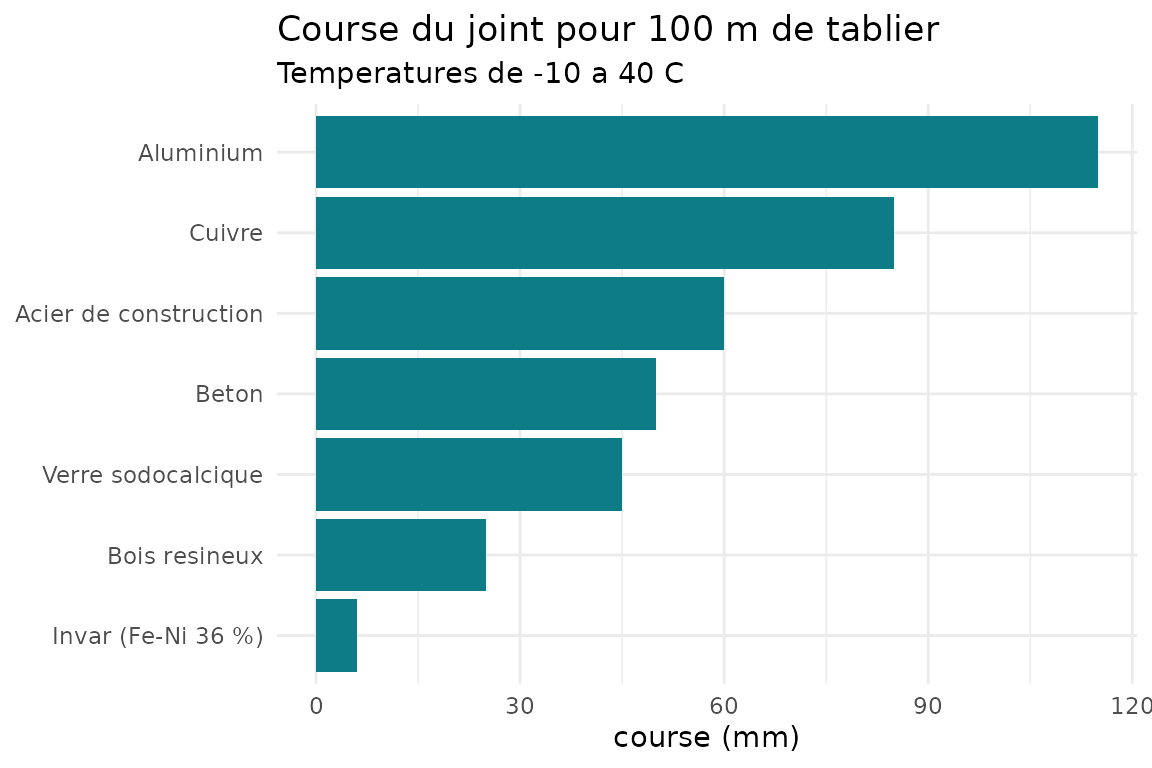
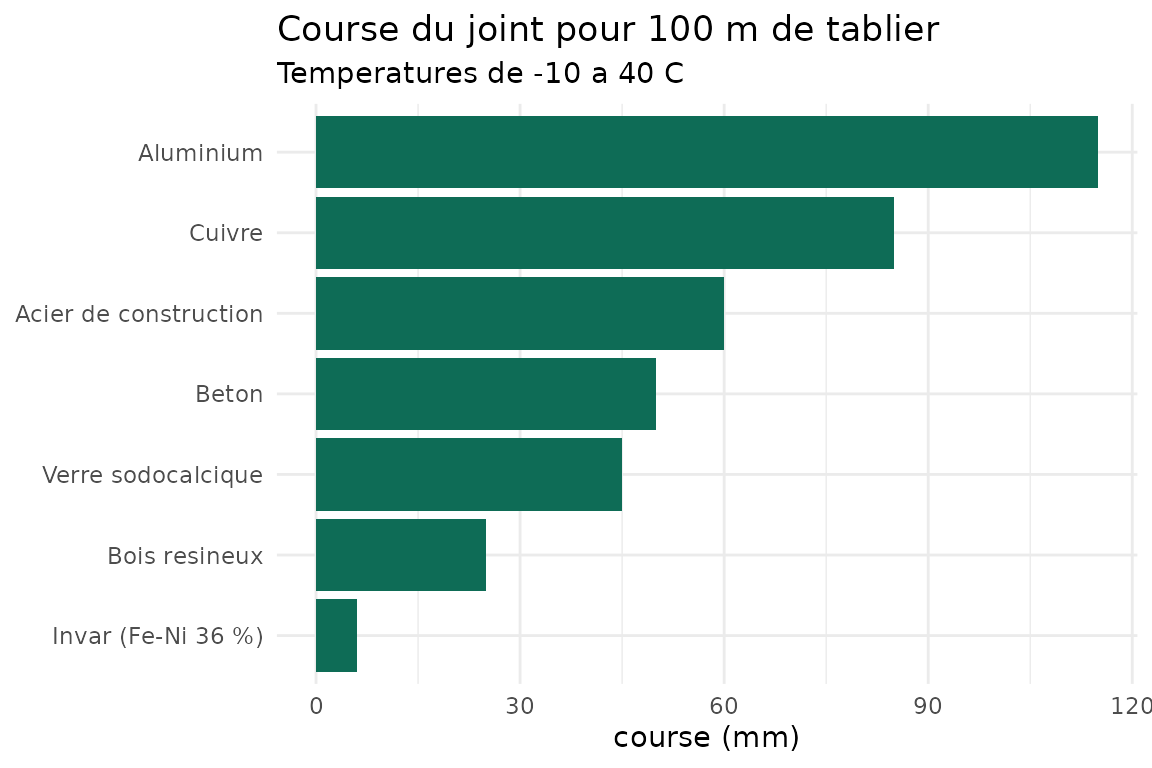
Deploying to gh-pages from @ Metagueu/dilatR@a092d3658f1d9b78eac9d725b19c268525b0c7a4 🚀

Changed region(s): [[0.25, 0.125, 0.9688, 0.875]]

diff --git a/articles/dilatR.html b/articles/dilatR.html
@@ -89,7 +89,8 @@ l’acier (<span class="math inline">\(E = 210\ \mathrm{GPa}\)</span>,
 <p>Ce tutoriel suit la démarche du package : une <strong>matrice de
 dilatation</strong> décrit la déformation, ses propriétés (déterminant,
 valeurs propres) ont un sens physique, puis on l’applique au
-dimensionnement d’un joint.</p>
+dimensionnement d’un joint.
+<img src="joints.jpg" alt="Schéma d'un joint de dilatation de pont" style="max-width:100%; height:auto;"><img src="joint.jpg" style="width:75.0%" alt="Schéma d’un joint de dilatation de pont"></p>
 <div class="sourceCode" id="cb1"><pre class="downlit sourceCode r">
 <code class="sourceCode R"><span><span class="kw"><a href="https://rdrr.io/r/base/library.html" class="external-link">library</a></span><span class="op">(</span><span class="va"><a href="https://github.com/Metagueu/dilatR" class="external-link">dilatR</a></span><span class="op">)</span></span></code></pre></div>
 <p class="page-nav">
@@ -331,7 +332,7 @@ composite carbone/époxy est exclu : son <span class="math inline">\(\alpha_x\)<
 <code class="sourceCode R"><span><span class="va">utiles</span><span class="op">$</span><span class="va">materiau</span> <span class="op">&lt;-</span> <span class="fu"><a href="https://rdrr.io/r/base/factor.html" class="external-link">factor</a></span><span class="op">(</span><span class="va">utiles</span><span class="op">$</span><span class="va">materiau</span>,</span>
 <span>                          levels <span class="op">=</span> <span class="va">utiles</span><span class="op">$</span><span class="va">materiau</span><span class="op">[</span><span class="fu"><a href="https://rdrr.io/r/base/order.html" class="external-link">order</a></span><span class="op">(</span><span class="va">utiles</span><span class="op">$</span><span class="va">course_mm</span><span class="op">)</span><span class="op">]</span><span class="op">)</span></span>
 <span><span class="fu">ggplot2</span><span class="fu">::</span><span class="fu"><a href="https://ggplot2.tidyverse.org/reference/ggplot.html" class="external-link">ggplot</a></span><span class="op">(</span><span class="va">utiles</span>, <span class="fu">ggplot2</span><span class="fu">::</span><span class="fu"><a href="https://ggplot2.tidyverse.org/reference/aes.html" class="external-link">aes</a></span><span class="op">(</span>x <span class="op">=</span> <span class="va">materiau</span>, y <span class="op">=</span> <span class="va">course_mm</span><span class="op">)</span><span class="op">)</span> <span class="op">+</span></span>
-<span>  <span class="fu">ggplot2</span><span class="fu">::</span><span class="fu"><a href="https://ggplot2.tidyverse.org/reference/geom_bar.html" class="external-link">geom_col</a></span><span class="op">(</span>fill <span class="op">=</span> <span class="st">"#0E7C86"</span><span class="op">)</span> <span class="op">+</span></span>
+<span>  <span class="fu">ggplot2</span><span class="fu">::</span><span class="fu"><a href="https://ggplot2.tidyverse.org/reference/geom_bar.html" class="external-link">geom_col</a></span><span class="op">(</span>fill <span class="op">=</span> <span class="st">"#0E6C56"</span><span class="op">)</span> <span class="op">+</span></span>
 <span>  <span class="fu">ggplot2</span><span class="fu">::</span><span class="fu"><a href="https://ggplot2.tidyverse.org/reference/coord_flip.html" class="external-link">coord_flip</a></span><span class="op">(</span><span class="op">)</span> <span class="op">+</span></span>
 <span>  <span class="fu">ggplot2</span><span class="fu">::</span><span class="fu"><a href="https://ggplot2.tidyverse.org/reference/labs.html" class="external-link">labs</a></span><span class="op">(</span>title <span class="op">=</span> <span class="st">"Course du joint pour 100 m de tablier"</span>,</span>
 <span>                subtitle <span class="op">=</span> <span class="st">"Temperatures de -10 a 40 C"</span>,</span>

diff --git a/index.html b/index.html
@@ -61,8 +61,8 @@
 </nav><div class="container template-home">
 <div class="row">
   <main id="main" class="col-md-9"><div class="cover">
-<img src="logo.png" class="cover-logo" alt="Logo dilatR"><p class="cover-kicker">
-Projet de programmation R · ANNEE_ACAD
+<img src="logo.jpg" class="cover-logo" alt="Logo dilatR"><p class="cover-kicker">
+Projet de programmation R · 2026-2027
 </p>
 <div class="page-header"><h1 class="cover-title">
 dilatR
@@ -72,22 +72,22 @@ Matrices de dilatation : de la théorie au dimensionnement des joints de pont
 </p>
 <div class="cover-meta">
 <div>
-<span>Présenté par</span><b>NOM_ETUDIANT</b>
+<span>Présenté par</span><b>Ngoufo Metagueu Jordan Christagi</b>
 </div>
 <div>
-<span>Matière</span><b>Programmation R</b>
+<span>Matière</span><b>INTRODUCTION A R</b>
 </div>
 <div>
-<span>Niveau</span><b>Niveau 3 · Science des données et IA</b>
+<span>Niveau</span><b>NIVEAU 3 Science de Données et Intelligence Artificielle</b>
 </div>
 <div>
-<span>Enseignant</span><b>ENSEIGNANT_NOM</b>
+<span>Enseignant</span><b>Mr. NGNEUMEU IVAN</b>
 </div>
 <div>
-<span>Établissement</span><b>ETABLISSEMENT_NOM</b>
+<span>Établissement</span><b>Ecole Nationale Supérieure Polytechnique de Douala</b>
 </div>
 <div>
-<span>Année académique</span><b>ANNEE_ACAD</b>
+<span>Année académique</span><b>2026-2027</b>
 </div>
 </div>
 <p><a class="cover-btn" href="articles/sommaire.html">Accéder au sommaire →</a></p>

diff --git a/articles/remerciements.html b/articles/remerciements.html
@@ -79,14 +79,8 @@ Merci pour votre attention
 </h2>
 <ul>
 <li>
-À <b>ENSEIGNANT_NOM</b>, pour son enseignement de la programmation R et
-son encadrement.
-</li>
-<li>
-À <b>ETABLISSEMENT_NOM</b>, pour le cadre de formation.
-</li>
-<li>
-À mes camarades, pour leurs remarques et leur soutien.
+À <b>Mr. NGNEUMEU IVAN</b>, pour son enseignement de la programmation R
+et son encadrement.
 </li>
 <li>
 À vous tous, pour votre écoute. <b>Place aux questions.</b>

diff --git a/index.md b/index.md
@@ -1,23 +1,23 @@
 # dilatR
 
-![Logo dilatR](logo.png)
+![Logo dilatR](logo.jpg)
 
-Projet de programmation R · ANNEE_ACAD
+Projet de programmation R · 2026-2027
 
 Matrices de dilatation : de la théorie au dimensionnement des joints de
 pont
 
-Présenté par**NOM_ETUDIANT**
+Présenté par**Ngoufo Metagueu Jordan Christagi**
 
-Matière**Programmation R**
+Matière**INTRODUCTION A R**
 
-Niveau**Niveau 3 · Science des données et IA**
+Niveau**NIVEAU 3 Science de Données et Intelligence Artificielle**
 
-Enseignant**ENSEIGNANT_NOM**
+Enseignant**Mr. NGNEUMEU IVAN**
 
-Établissement**ETABLISSEMENT_NOM**
+Établissement**Ecole Nationale Supérieure Polytechnique de Douala**
 
-Année académique**ANNEE_ACAD**
+Année académique**2026-2027**
 
 [Accéder au sommaire
 →](https://metagueu.github.io/dilatR/articles/sommaire.md)

diff --git a/articles/dilatR.md b/articles/dilatR.md
@@ -14,6 +14,8 @@ charge.
 Ce tutoriel suit la démarche du package : une **matrice de dilatation**
 décrit la déformation, ses propriétés (déterminant, valeurs propres) ont
 un sens physique, puis on l’applique au dimensionnement d’un joint.
+![Schéma d'un joint de dilatation de pont](joints.jpg)![Schéma d’un
+joint de dilatation de pont](joint.jpg)
 
 ``` r
 
@@ -256,7 +258,7 @@ knitr::kable(
 utiles$materiau <- factor(utiles$materiau,
                           levels = utiles$materiau[order(utiles$course_mm)])
 ggplot2::ggplot(utiles, ggplot2::aes(x = materiau, y = course_mm)) +
-  ggplot2::geom_col(fill = "#0E7C86") +
+  ggplot2::geom_col(fill = "#0E6C56") +
   ggplot2::coord_flip() +
   ggplot2::labs(title = "Course du joint pour 100 m de tablier",
                 subtitle = "Temperatures de -10 a 40 C",

diff --git a/articles/remerciements.md b/articles/remerciements.md
@@ -2,10 +2,8 @@
 
 ## Merci pour votre attention
 
-- À **ENSEIGNANT_NOM**, pour son enseignement de la programmation R et
-  son encadrement.
-- À **ETABLISSEMENT_NOM**, pour le cadre de formation.
-- À mes camarades, pour leurs remarques et leur soutien.
+- À **Mr. NGNEUMEU IVAN**, pour son enseignement de la programmation R
+  et son encadrement.
 - À vous tous, pour votre écoute. **Place aux questions.**
 
 [← Retour au
